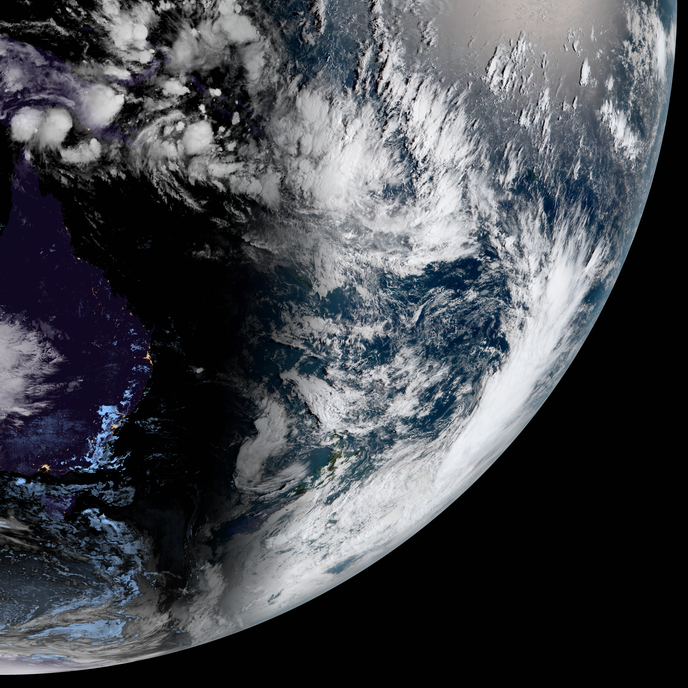
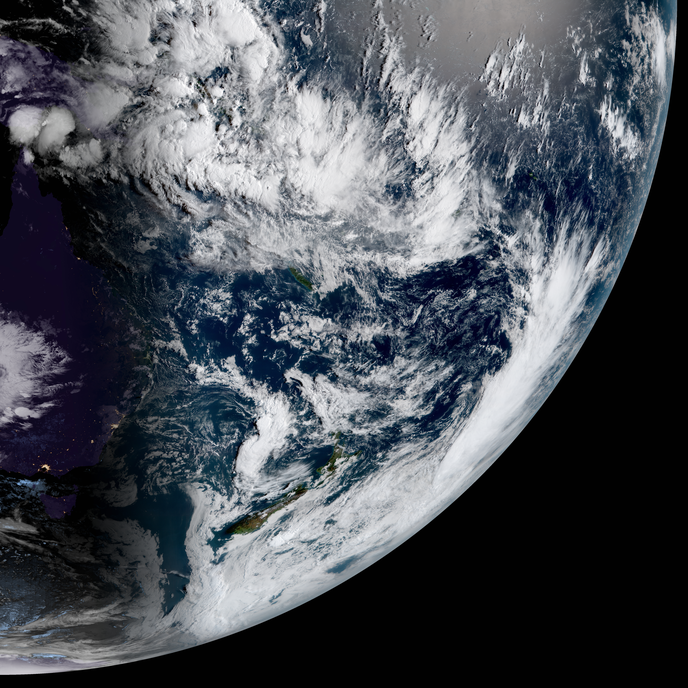
Adding goes 17, changed GOES link to larger res images, added more log statements

diff --git a/desktop.py b/desktop.py
@@ -3,10 +3,14 @@ from PIL import Image
 from datetime import datetime, timedelta
 import os
 
+# Increate max pixel limit for PILLOW
+Image.MAX_IMAGE_PIXELS = 117679104 + 1
+
 # Download the file from `url` and save it locally under `file_name`:
 imageDir = os.path.join('.', 'images')
 finalImageDir = os.path.join('.', 'finalImages')
-goes16 = 'https://cdn.star.nesdis.noaa.gov/GOES16/ABI/FD/GEOCOLOR/1808x1808.jpg'
+goes16 = 'https://cdn.star.nesdis.noaa.gov/GOES16/ABI/FD/GEOCOLOR/10848x10848.jpg'
+goes17 = 'https://cdn.star.nesdis.noaa.gov/GOES17/ABI/FD/GEOCOLOR/10848x10848.jpg'
 
 lower_right = '01/001_001.png'
 lower_left = '/01/001_000.png'
@@ -32,6 +36,7 @@ count = 0
 while count < 100:
         try:
                 response = urllib.request.urlretrieve(him+lower_right, os.path.join(imageDir, 'him-8_lr.png'))
+                print("Found him8 image at ", him)
                 break
         except:
                 utc = utc-timedelta(minutes=10)
@@ -41,15 +46,16 @@ while count < 100:
                 time = str(utc-timedelta(minutes=10))[11:15].replace(':','')+'000'
                 him = 'http://rammb-slider.cira.colostate.edu/data/imagery/{}/himawari---full_disk/geocolor/{}{}/'.format(date,date,time)
                 count += 1
-                print(time)
-# print('downloading images')
+print('Downloading GOES images')
 urllib.request.urlretrieve(goes16, os.path.join(finalImageDir, 'goes16.png'))
+urllib.request.urlretrieve(goes17, os.path.join(finalImageDir, 'goes17.png'))
 # Already go lr earlier ^
+print('Downloading HIM8 images')
 urllib.request.urlretrieve(him+lower_left, os.path.join(imageDir, 'him-8_ll.png'))
 urllib.request.urlretrieve(him+upper_left, os.path.join(imageDir, 'him-8_ul.png'))
 urllib.request.urlretrieve(him+upper_right, os.path.join(imageDir, 'him-8_ur.png'))
 
-# merge him8 images
+print("Merging HIM8 images")
 image_ul = Image.open(os.path.join(imageDir, 'him-8_ul.png'))
 image_ur = Image.open(os.path.join(imageDir, 'him-8_ur.png'))
 image_ll = Image.open(os.path.join(imageDir, 'him-8_ll.png'))
@@ -67,17 +73,26 @@ him8_image.paste(im=image_ll, box=(0, height))
 him8_image.paste(im=image_lr, box=(width, height))
 him8_image.save(os.path.join(finalImageDir, 'him8.png'))
 
-#resize and merge him8 and goes16 images
+print("Resizing images")
 image1 = Image.open(os.path.join(finalImageDir, 'goes16.png'))
 image2 = Image.open(os.path.join(finalImageDir, 'him8.png'))
+image3 = Image.open(os.path.join(finalImageDir, 'goes17.png'))
 
 height = 2160
 width = 3840
 
 image1 = image1.resize((int(width/2), height), Image.NEAREST)
 image2 = image2.resize((int(width/2), height), Image.NEAREST)
+image3 = image3.resize((int(width/2), height), Image.NEAREST)
 
+print("Creating him8_goes16")
 result = Image.new('RGB', (width, height))
-result.paste(im=image1, box=(0, 0))
-result.paste(im=image2, box=(int(width/2), 0))
-result.save(os.path.join(finalImageDir, 'final.png'))
+result.paste(im=image2, box=(0, 0))
+result.paste(im=image1, box=(int(width/2), 0))
+result.save(os.path.join(finalImageDir, 'him8_goes16.png'))
+
+print("Creating goes16_goes17.png")
+result = Image.new('RGB', (width, height))
+result.paste(im=image3, box=(0, 0))
+result.paste(im=image1, box=(int(width/2), 0))
+result.save(os.path.join(finalImageDir, 'goes16_goes17.png'))
